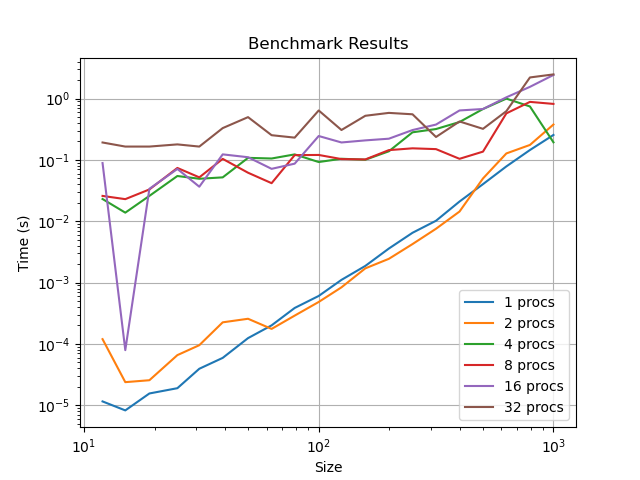
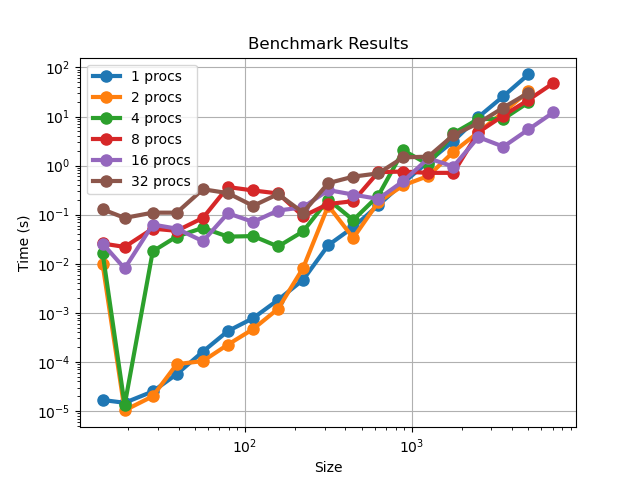
update

diff --git a/P2/benchmark.cpp b/P2/benchmark.cpp
@@ -1,6 +1,7 @@
 #include "distributedmatrix.hpp"
 #include <iostream>
 #include <math.h>
+#include <chrono>
 
 int main(int argc, char** argv) {
     // Initialize MPI
@@ -40,16 +41,17 @@ int main(int argc, char** argv) {
         DistributedMatrix distB(B, numProcesses);
         
         // Start timing
-        double startTime = MPI_Wtime();
+        auto startTime = std::chrono::high_resolution_clock::now();
         
         // Perform multiplication
         Matrix res = distA.multiplyTransposed(distB);
         
         // End timing
-        double endTime = MPI_Wtime();
-        
+        auto endTime = std::chrono::high_resolution_clock::now();
+        auto duration = std::chrono::duration_cast<std::chrono::nanoseconds>(endTime - startTime);
+
         if (rank == 0) {
-            std::cout << size << "," << (endTime - startTime) << std::endl;
+            std::cout << size << "," << duration.count() << std::endl;
         }
     }
     // Finalize MPI

diff --git a/P2/plot.py b/P2/plot.py
@@ -5,7 +5,7 @@ for i in range(0, 6):
     i = 2**i
     df = pd.read_csv(f"results/benchmark_results_{i}_procs.txt")
 
-    plt.plot(df['Size'], df['Time'], label=f"{i} procs")
+    plt.plot(df['Size'], df['Time'], label=f"{i} procs", marker='o', linewidth=3, markersize=8)
 
 plt.xlabel('Size')
 plt.ylabel('Time (s)')
